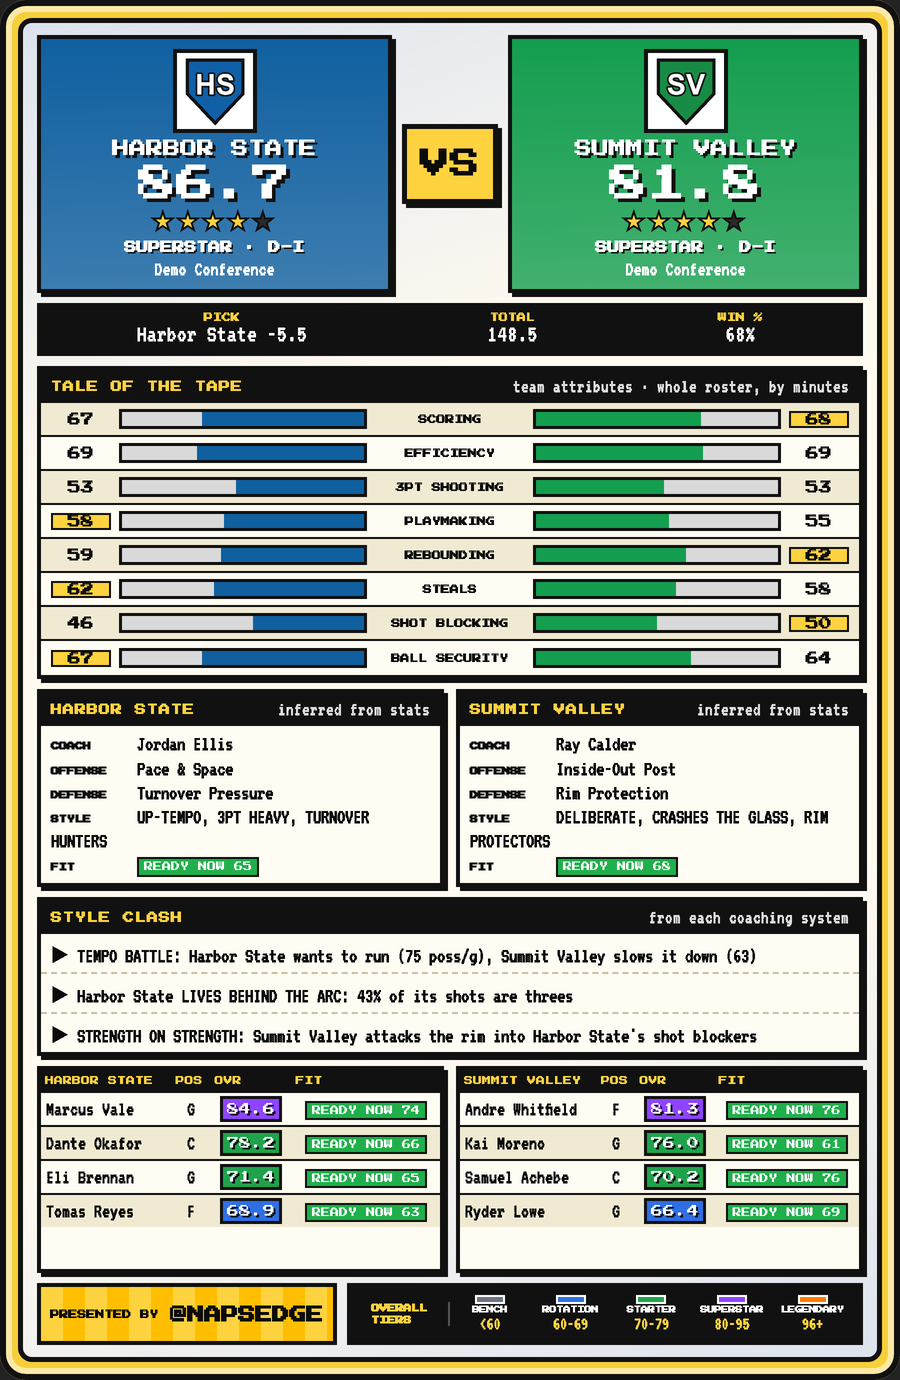
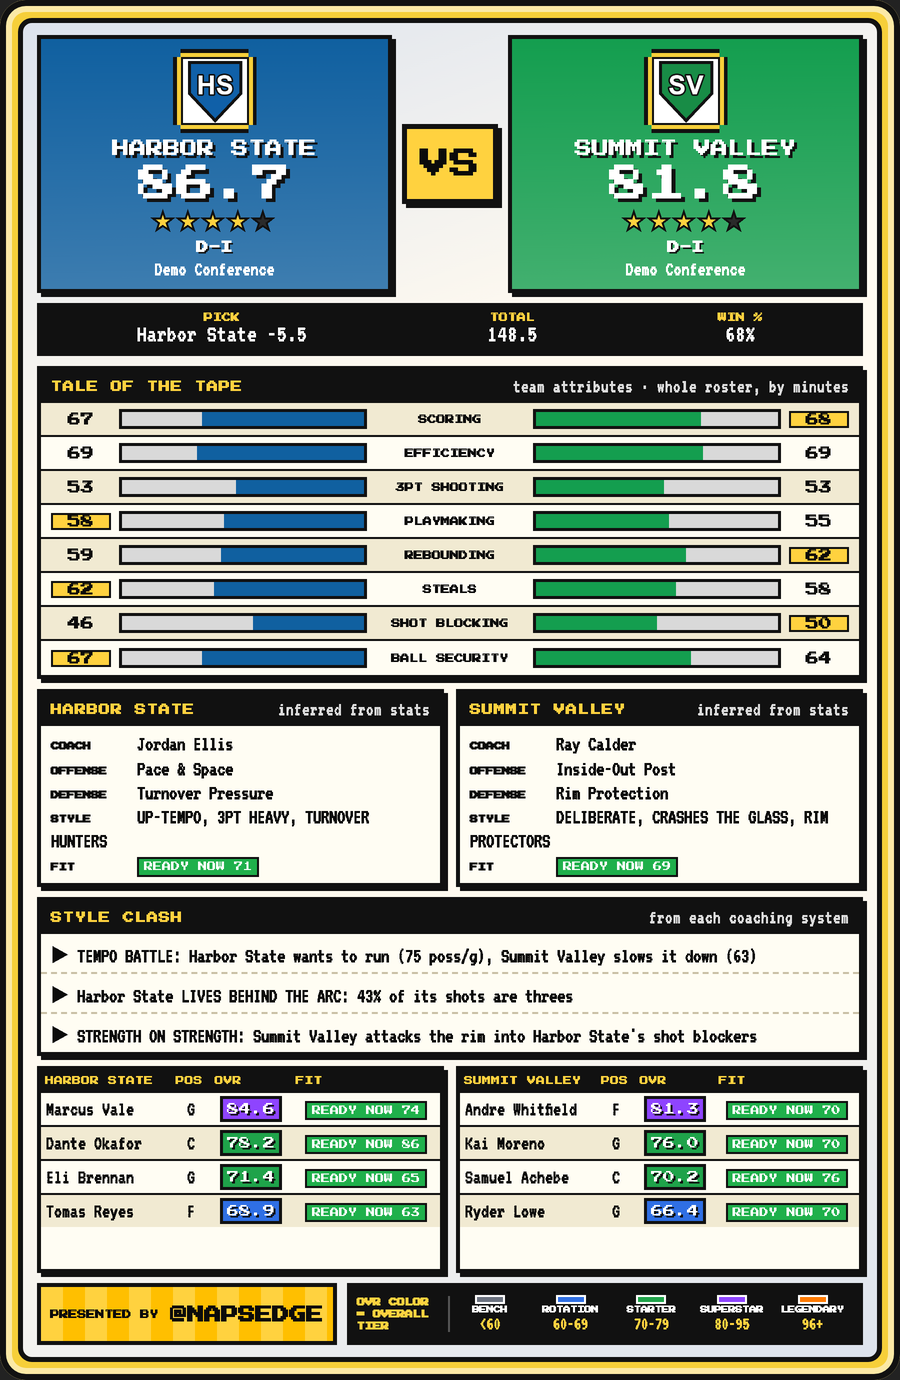
Methodology: layered upside profile (validated), fouls and staying on the floor, per-40 evidence, exhibitions and in-season weighting, one parallel refresh; sample cards in the new design

diff --git a/docs/methodology.md b/docs/methodology.md
@@ -14,12 +14,15 @@ The sample cards below use **fictional players, teams and coaches**. They are dr
 2. [Collecting the data](#collecting-the-data)
 3. [The player rating (OVR)](#the-player-rating-ovr)
 4. [Players below Division I](#players-below-division-i)
-5. [The team rating](#the-team-rating)
-6. [Coaching systems: System DNA](#coaching-systems-system-dna)
-7. [Readiness: how a player fits a system](#readiness-how-a-player-fits-a-system)
-8. [Matchups and conferences](#matchups-and-conferences)
-9. [Running it every day](#running-it-every-day)
-10. [How the numbers are checked](#how-the-numbers-are-checked)
+5. [Upside: a layered, tested profile](#upside-a-layered-tested-profile)
+6. [The new season: exhibitions, then current play first](#the-new-season-exhibitions-then-current-play-first)
+7. [The team rating](#the-team-rating)
+8. [Coaching systems: System DNA](#coaching-systems-system-dna)
+9. [Readiness: how a player fits a system](#readiness-how-a-player-fits-a-system)
+10. [Matchups and conferences](#matchups-and-conferences)
+11. [Running it every day](#running-it-every-day)
+12. [How the numbers are checked](#how-the-numbers-are-checked)
+13. [Next: incoming players](#next-incoming-players)
 
 ## The pipeline at a glance
 
@@ -63,6 +66,12 @@ Every crawler identifies itself honestly, reads and obeys each site's robots.txt
 
 **Context adjustments.** The skills combine into one OVR with role and consistency adjustments: minutes and games played (a small sample is held back), a recency factor from the last 5 and 10 games, and, for Division I, conference strength. Size counts for the position: height is compared with the Division I average for guards, forwards and centers, so a 6-6 guard is big and a 6-8 center is undersized.
 
+**Graded against his league and position.** Each attribute is shown as a percentile among players of the same league and position group (a guard against guards), on five equal bands: POOR, LOW, AVG, GOOD, GREAT, ELITE.
+
+**Every number says what it is.** Counting skills are shown per 40 minutes with the per-game number and minutes under them ("22.1 PTS/40 · 17.8 PPG · 32 MIN"), so a high scoring grade in limited minutes is explained rather than doubted; rates name their stat ("61% TS", "14% TOV").
+
+**Staying on the floor.** Fouls per 40 minutes, against his league and position, fewer grading higher. It is its own row on the card and a small, capped adjustment to the overall: a player who stays out of foul trouble is worth more minutes.
+
 **Tiers.** BENCH (under 60), ROTATION (60-69), STARTER (70-79), SUPERSTAR (80-95), LEGENDARY (96+).
 
 **The scouting report is rules on his own numbers, not a language model.** Strengths and weaknesses cite the player's level and his own per-game numbers; the role title ("Scoring Guard", "Rim Protector") and the systems he suits follow from his best skills and position; the development plan names the next level for his weakest key skills, with polishing rather than rebuilding for a player in his final season.
@@ -72,6 +81,34 @@ Every crawler identifies itself honestly, reads and obeys each site's robots.txt
 A Division II, Division III or junior-college player is first rated against his own division. For a player moving up, the card also shows a **Division I projection**: his own-division OVR mapped onto the Division I scale with a curve calibrated on players who actually made the move, then adjusted for skills that transfer well and for pedigree (recruiting stars, All-America and conference honors). The card says which number it shows ("NCAA DII RATING" or "D-I PROJECTION") and where the rating came from.
 
 Expected growth for a returning player comes from a study of 631 Division II and III players who stayed at the same school between two seasons: growth by starting level, class year, upside and role. A player in his final season shows no further growth.
+
+## Upside: a layered, tested profile
+
+An upside label has to be defensible from the player's own numbers. The first version, a single-season index, was tested against what players actually did the next season and failed: players it called "elite upside" grew the *least*. It was replaced by a profile of five layers, each ranked within his league and position:
+
+| Layer | What it measures |
+|---|---|
+| Runway | Seasons of eligibility left |
+| Trajectory | His rating change last season |
+| Headroom | Efficient production in a small role (true shooting and points per 40, weighted by how little he plays; a minimum sample applies) |
+| Tools | Size for his position, steals, blocks and offensive rebounds |
+| Pedigree | National recruiting rank |
+
+The layers' weights were **fitted to real growth**: every rated Division I player across three seasons, about 5,800 player-season pairs, predicting his next-season rating change. Tested on teams held out of the fit:
+
+| Predicting next-season rating change | Correlation |
+|---|---|
+| Layered profile | **0.43** |
+| Previous upside badge | 0.07 |
+| Current rating alone | 0.40 |
+
+Most of the predictability is regression toward the middle (lower-rated players rise, the highest fall back), so labels rank only the growth the layers add beyond what a player's current rating predicts. Three labels by share of each league and position: **Star Ceiling**, **High Ceiling**, **Stock Rising**; a player in his final season or already rated 90+ gets none. The card names the two stats that earned the label, e.g. "61% TS · 14 MPG · RSCI #38". Individual growth stays noisy (a typical miss is several rating points), and the card says what the label rests on rather than overstating it.
+
+## The new season: exhibitions, then current play first
+
+**Exhibitions** are read from each school's own box scores (no statistics site carries them), kept once and never fetched again. They are rated like a season at the same per-game rates and nudge the preseason rating by a small weight that grows with minutes, counted at a discount because starters rest and opponents vary. One exhibition moves a player a few percent of the way at most.
+
+**Once real games start, this season leads.** A player's rating and every attribute blend this season with his history (his preseason card, else last season), and this season's share grows with his minutes: a regular starter is mostly this season by midseason. Exhibitions then stay only inside the preseason history, worth far less than regular-season and postseason games. A team's rating follows from its players.
 
 ## The team rating
 
@@ -106,6 +143,8 @@ A program's system is measured from its own season, not from a description of it
 
 Each trait is ranked among the teams of the same division and season and shown as a level (VERY LOW, LOW, AVG, HIGH, VERY HIGH) with a plain rank ("top 8%", "bottom 2%"). The strongest traits name an offensive and a defensive style (for example *Pace & Space*, *Motion / Ball Movement*, *Half-Court Grind*; *Turnover Pressure*, *Rim Protection*), and the most extreme give the team its tags ("UP-TEMPO", "RIM PROTECTORS").
 
+**Style is not re-labelled on a few games.** Early in a season a team keeps its established style (its coach's last season, or a new coach's from his previous program) until it has played enough games and its DNA has clearly moved; then the card says the style changed.
+
 **The system follows the coach.** Each season's head coach is recorded from the pages the crawlers already read. When a program hires a new coach, its card takes the System DNA from that coach's most recent season at his previous program (in that program's division) and says so, with his record there. A returning coach keeps his own team's system. A coach recorded by hand with a source (a named scheme, for instance) overrides what the statistics infer.
 
 ## Readiness: how a player fits a system
@@ -128,7 +167,9 @@ READY NOW (60+), DEVELOPING (45-59) or PROJECT (under 45). Minutes from a previo
 
 ## Running it every day
 
-Scheduled jobs on the server, each in its own hardened container (read-only filesystem, unprivileged user, no capabilities):
+One scheduled refresh covers every league in about 40 minutes. Sites never share a request budget, so two lanes run at once: Sports-Reference (one host, held to its published rate limit, which sets the floor) and the schools' own sites, read in parallel, one request at a time per site. Box scores already kept are never fetched again, a season that is not published yet is detected from a few pages and skipped, and the head-coach check runs in the offseason, when coaches change.
+
+The server version of the same jobs, each in its own hardened container (read-only filesystem, unprivileged user, no capabilities):
 
 | Job | When |
 |---|---|
@@ -147,3 +188,7 @@ Each card is saved twice, a full-resolution PNG for the web and a 256-colour cop
 - **Snapshot discipline.** Tests that pin values from real data say which data snapshot they come from. When a data refresh moves a value, the cause is investigated before any expected value changes, and a gap that turns out to be a real difference between two implementations is fixed at its source rather than hidden by a new tolerance.
 - **Layout checks.** Card sections are measured for clipped text and dead space before a design change is accepted.
 - **Every scraper and parser is tested on the real pages' markup**, including the failure paths: a page that does not exist, a site that refuses, a redirect to another host, a malformed address.
+
+## Next: incoming players
+
+Freshmen and international signees are projected from recruiting rankings until they play. The next step is a stats-based projection from grassroots and international play (Nike EYBL, FIBA youth events, Overtime Elite, the Next Generation Tournament), translated to each college level the same way lower-division ratings are: fitted on players seen at both levels, kept only if it beats recruiting rankings alone, and shown with its expected error. Several of these sources are licensed data; nothing is collected without the source's permission, and because most of these players are minors only published game statistics are used.
